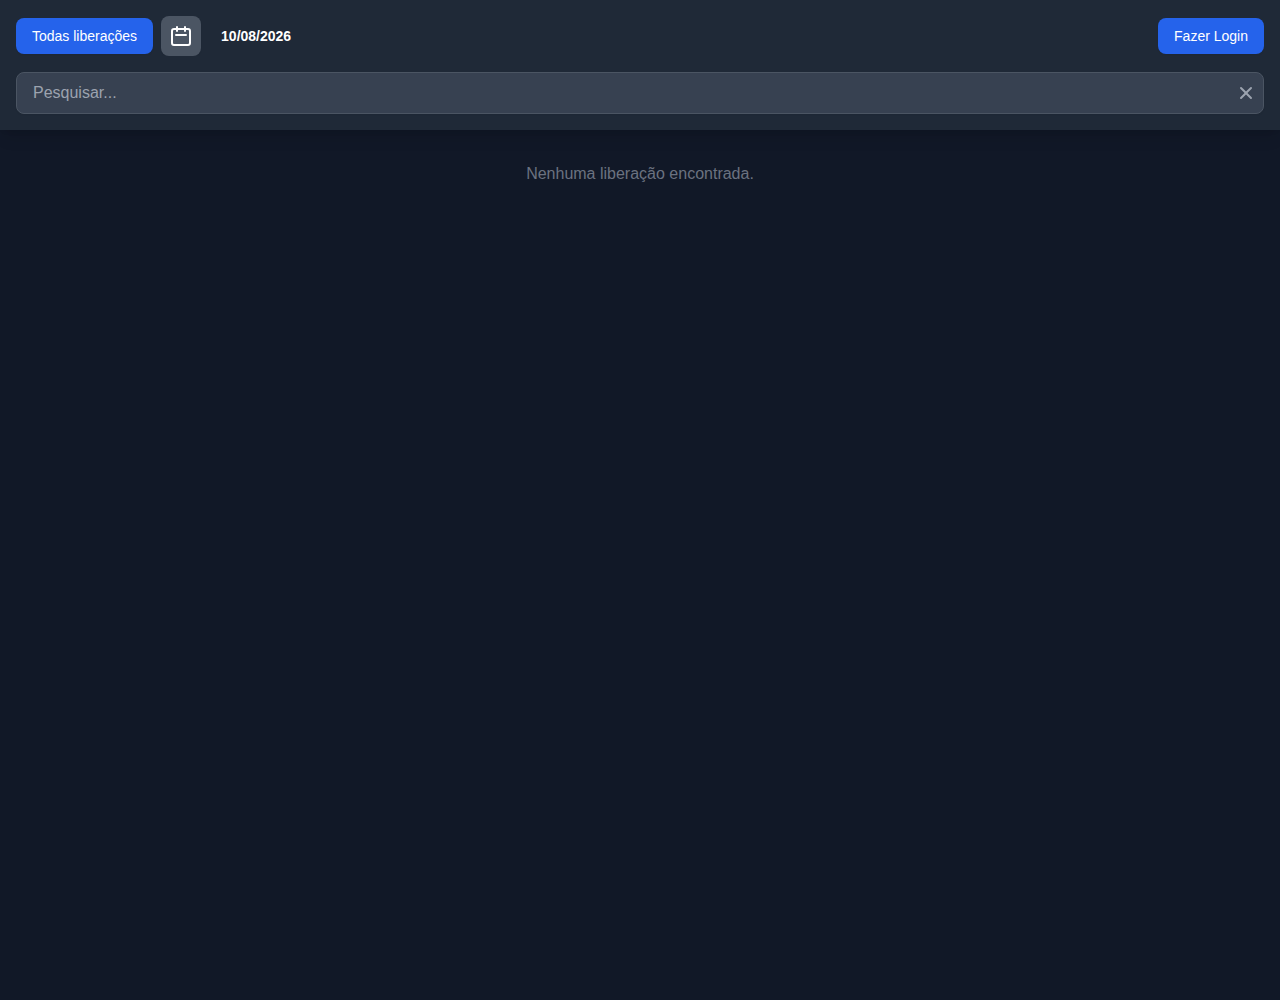
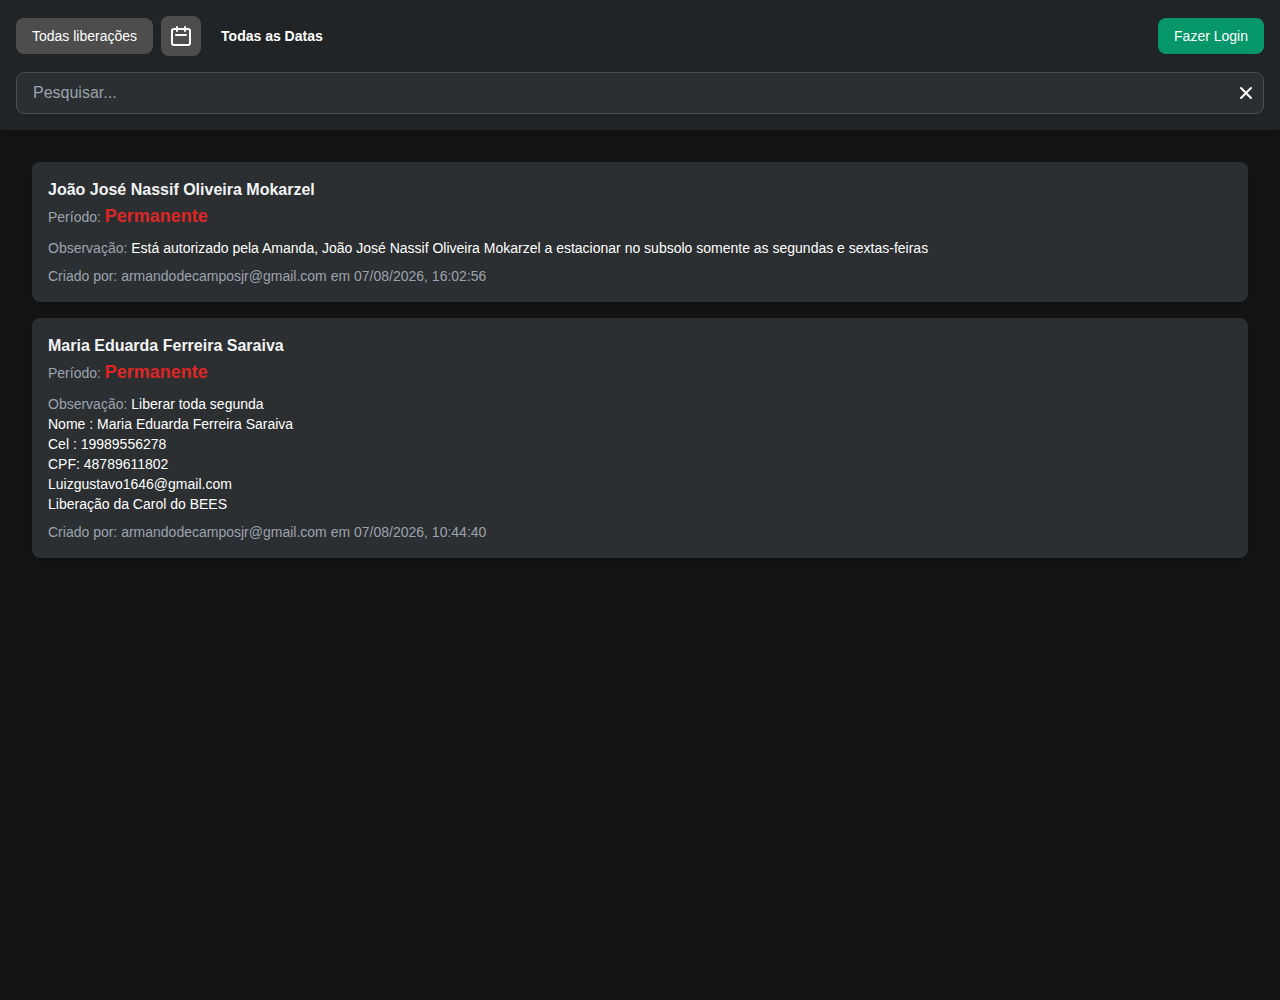
Persistir e aplicar instantaneamente os filtros de pesquisa via localStorage
- Salva os termos de pesquisa, o tipo de filtro (data/todas), a data selecionada e a visualização (todas/minhas) no localStorage ao serem alterados.
- Recupera e aplica instantaneamente os valores na inicialização da página (setInitialDateAndFetch), evitando delay e mantendo o filtro ativo ao navegar/recarregar a página.
- Permite que a sondagem por intervalo (setInterval) seja executada também para usuários visitantes (guests), aplicando corretamente o termo de pesquisa atualizado.

diff --git a/index.htm b/index.htm
@@ -597,7 +597,7 @@
 
         // Sondagem para atualização de dados
         setInterval(() => {
-            if (currentSession && liberacaoPage.style.display !== 'none') {
+            if (liberacaoPage && liberacaoPage.style.display !== 'none') {
                 fetchLiberacoes(currentSession, currentFilterType, currentFilterDate, searchInput.value);
             }
         }, POLLING_INTERVAL);
@@ -1231,6 +1231,7 @@
         if (topBtnAll) {
             topBtnAll.addEventListener('click', () => {
                 liberacaoOwnerFilter = 'all';
+                localStorage.setItem('liberacoes_ownerFilter', 'all');
                 updateOwnerFilterUI();
                 fetchLiberacoes(currentSession, currentFilterType, currentFilterDate, searchInput.value);
             });
@@ -1238,6 +1239,7 @@
         if (topBtnMy) {
             topBtnMy.addEventListener('click', () => {
                 liberacaoOwnerFilter = 'my';
+                localStorage.setItem('liberacoes_ownerFilter', 'my');
                 updateOwnerFilterUI();
                 fetchLiberacoes(currentSession, currentFilterType, currentFilterDate, searchInput.value);
             });
@@ -1430,6 +1432,10 @@
             customDateInput.addEventListener('change', (event) => {
                  const selectedDate = event.target.value;
                  if (selectedDate) {
+                    currentFilterType = 'date';
+                    currentFilterDate = selectedDate;
+                    localStorage.setItem('liberacoes_filterType', 'date');
+                    localStorage.setItem('liberacoes_filterDate', selectedDate);
                     fetchLiberacoes(currentSession, 'date', selectedDate, searchInput.value);
                  }
                  if (customCalendarModal) customCalendarModal.style.display = 'none';
@@ -1439,8 +1445,11 @@
         if (selectTodayBtn) {
             selectTodayBtn.addEventListener('click', () => {
                  const today = new Date().toISOString().split('T')[0];
-                 fetchLiberacoes(currentSession, 'date', today, searchInput.value);
+                 currentFilterType = 'date';
                  currentFilterDate = today;
+                 localStorage.setItem('liberacoes_filterType', 'date');
+                 localStorage.setItem('liberacoes_filterDate', today);
+                 fetchLiberacoes(currentSession, 'date', today, searchInput.value);
                  customDateInput.value = today;
                  if (customCalendarModal) customCalendarModal.style.display = 'none';
             });
@@ -1448,9 +1457,11 @@
 
         if (selectAllDatesBtn) {
             selectAllDatesBtn.addEventListener('click', () => {
-                 fetchLiberacoes(currentSession, 'all', null, searchInput.value);
                  currentFilterType = 'all';
                  currentFilterDate = null;
+                 localStorage.setItem('liberacoes_filterType', 'all');
+                 localStorage.removeItem('liberacoes_filterDate');
+                 fetchLiberacoes(currentSession, 'all', null, searchInput.value);
                  customDateInput.value = '';
                  if (customCalendarModal) customCalendarModal.style.display = 'none';
             });
@@ -1460,6 +1471,7 @@
             clearSearchBtn.addEventListener('click', () => {
                 if (searchInput) searchInput.value = '';
                 currentMatchIndex = -1; // Reset navigation
+                localStorage.setItem('liberacoes_searchTerm', '');
                 fetchLiberacoes(currentSession, currentFilterType, currentFilterDate, '');
             });
         }
@@ -1470,6 +1482,9 @@
                 // Define o filtro para "todas" quando o usuário começar a pesquisar
                 currentFilterType = 'all';
                 currentFilterDate = null;
+                localStorage.setItem('liberacoes_filterType', 'all');
+                localStorage.removeItem('liberacoes_filterDate');
+                localStorage.setItem('liberacoes_searchTerm', event.target.value);
 
                 searchTimeout = setTimeout(() => {
                     currentMatchIndex = 0; // Reset index on new search
@@ -1513,9 +1528,30 @@
         // Função para definir a data inicial e buscar as liberações
         function setInitialDateAndFetch() {
             const today = new Date().toISOString().split('T')[0];
-            if(filterDateInput) filterDateInput.value = today;
-            updateFilterButtons('date');
-            fetchLiberacoes(currentSession, 'date', today);
+
+            // Recupera o estado salvo no localStorage
+            const savedSearchTerm = localStorage.getItem('liberacoes_searchTerm') || '';
+            const savedFilterType = localStorage.getItem('liberacoes_filterType') || 'date';
+            const savedFilterDate = localStorage.getItem('liberacoes_filterDate') || today;
+            const savedOwnerFilter = localStorage.getItem('liberacoes_ownerFilter') || 'all';
+
+            // Atualiza as variáveis de estado globais
+            currentFilterType = savedFilterType;
+            currentFilterDate = savedFilterDate;
+            liberacaoOwnerFilter = savedOwnerFilter;
+
+            if (searchInput) {
+                searchInput.value = savedSearchTerm;
+            }
+
+            if (filterDateInput) {
+                filterDateInput.value = savedFilterDate;
+            }
+
+            updateFilterButtons(savedFilterType);
+            updateOwnerFilterUI();
+
+            fetchLiberacoes(currentSession, savedFilterType, savedFilterDate, savedSearchTerm);
         }
 
         // Lógica para verificar a URL imediatamente e definir a sessão
@@ -1594,7 +1630,7 @@
                     accessControlTitle.style.pointerEvents = 'none'; // Impede interação
                 }
 
-                liberacaoOwnerFilter = 'all';
+                liberacaoOwnerFilter = localStorage.getItem('liberacoes_ownerFilter') || 'all';
                 updateOwnerFilterUI();
                 setInitialDateAndFetch();
                 adjustPageHeight();
@@ -1620,7 +1656,7 @@
                     accessControlTitle.style.pointerEvents = 'none'; // Impede interação
                 }
 
-                liberacaoOwnerFilter = 'all';
+                liberacaoOwnerFilter = localStorage.getItem('liberacoes_ownerFilter') || 'all';
                 updateOwnerFilterUI();
                 setInitialDateAndFetch();
                 adjustPageHeight();
